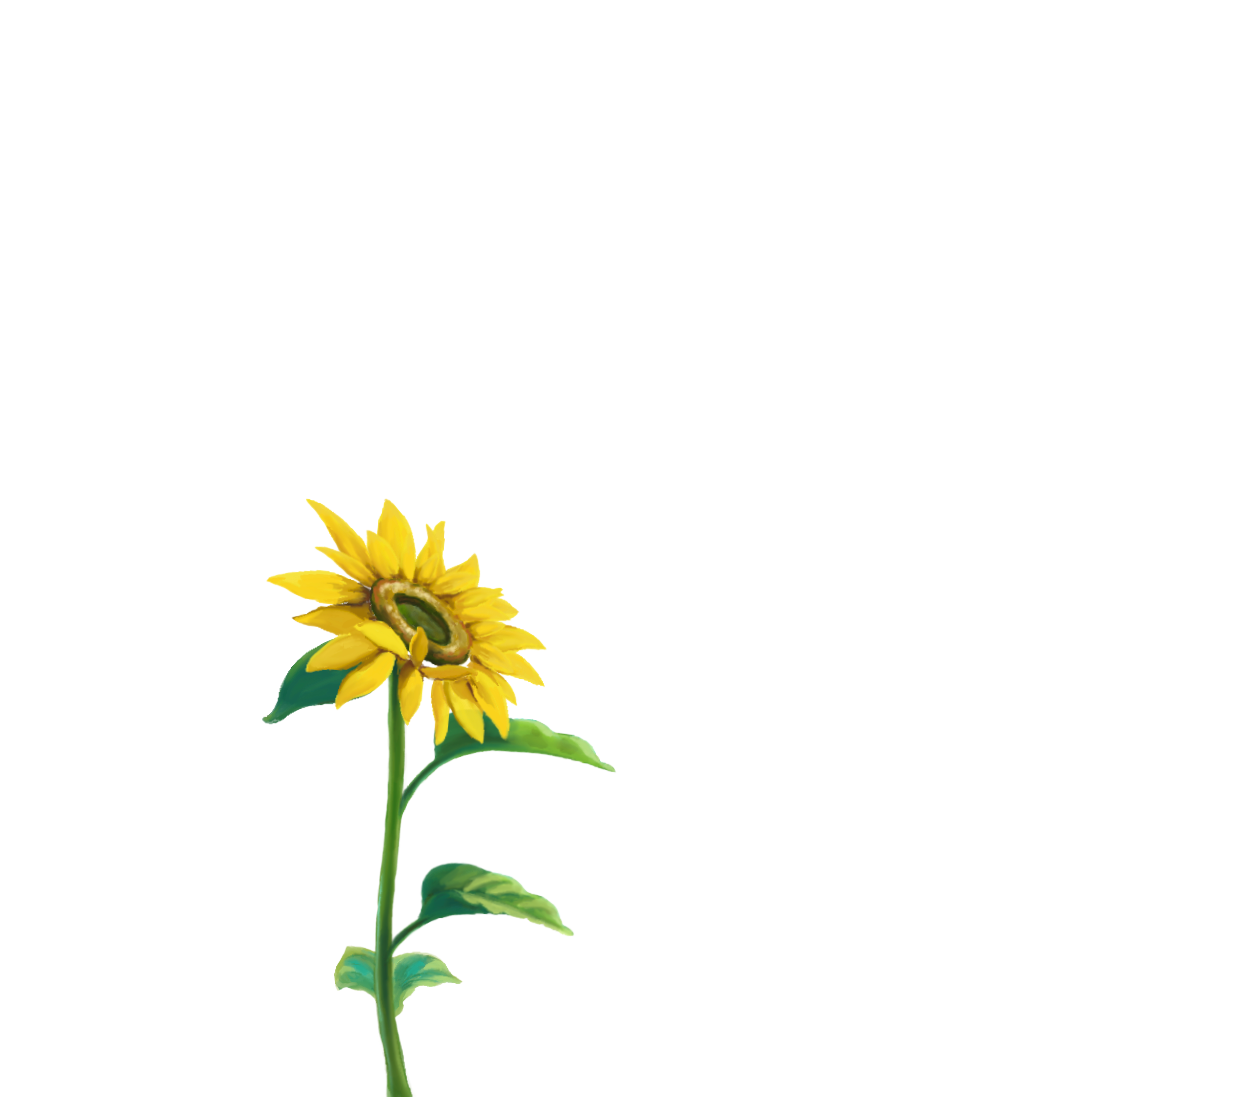
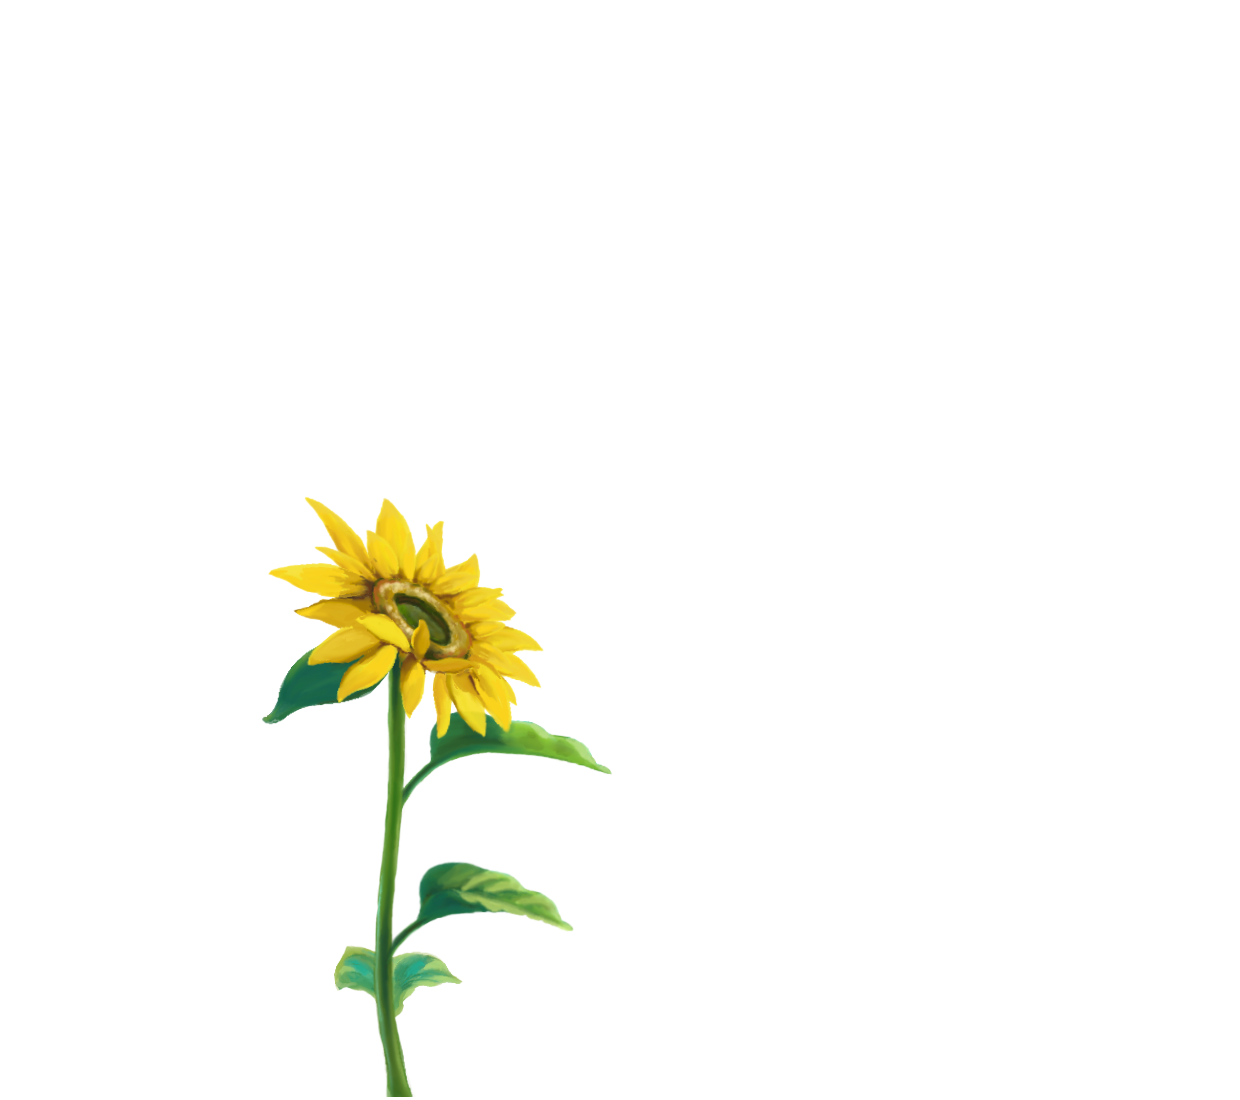
added 4 sunflower frames

Changed region(s): [[0.2145, 0.4945, 0.4903, 0.7109], [0.3371, 0.7727, 0.4597, 0.8655], [0.3065, 0.7109, 0.3371, 0.7418]]

diff --git a/backgroundAssets.js b/backgroundAssets.js
@@ -6,6 +6,9 @@ const gameAlert = document.getElementById('game-alert');
         scene.load.image('bg', 'https://raw.githubusercontent.com/sukichn/sukichn.github.io/refs/heads/main/Resources/css/Images/grass.png');
         scene.load.image('sunflower1', 'https://raw.githubusercontent.com/sukichn/sukichn.github.io/refs/heads/main/Resources/css/Images/sunflower1.png');
         scene.load.image('sunflower2', 'https://raw.githubusercontent.com/sukichn/sukichn.github.io/refs/heads/main/Resources/css/Images/sunflower2.png');
+        scene.load.image('sunflower3', 'https://raw.githubusercontent.com/sukichn/sukichn.github.io/refs/heads/main/Resources/css/Images/sunflower3.png');
+        scene.load.image('sunflower4', 'https://raw.githubusercontent.com/sukichn/sukichn.github.io/refs/heads/main/Resources/css/Images/sunflower4.png');
+
     };
 
     global.createBackgroundAssets = function(scene, gameState) {
@@ -23,9 +26,11 @@ const gameAlert = document.getElementById('game-alert');
             key: 'sunflowerAnimation',
             frames: [
                 { key: 'sunflower1' },
-                { key: 'sunflower2' }
+                { key: 'sunflower2' },
+                { key: 'sunflower3' },
+                { key: 'sunflower4' },
             ],
-            frameRate: 2, // Set the frame rate (adjust as needed)
+            frameRate: 4, // Set the frame rate (adjust as needed)
             repeat: -1 // Repeat indefinitely
         });
 
